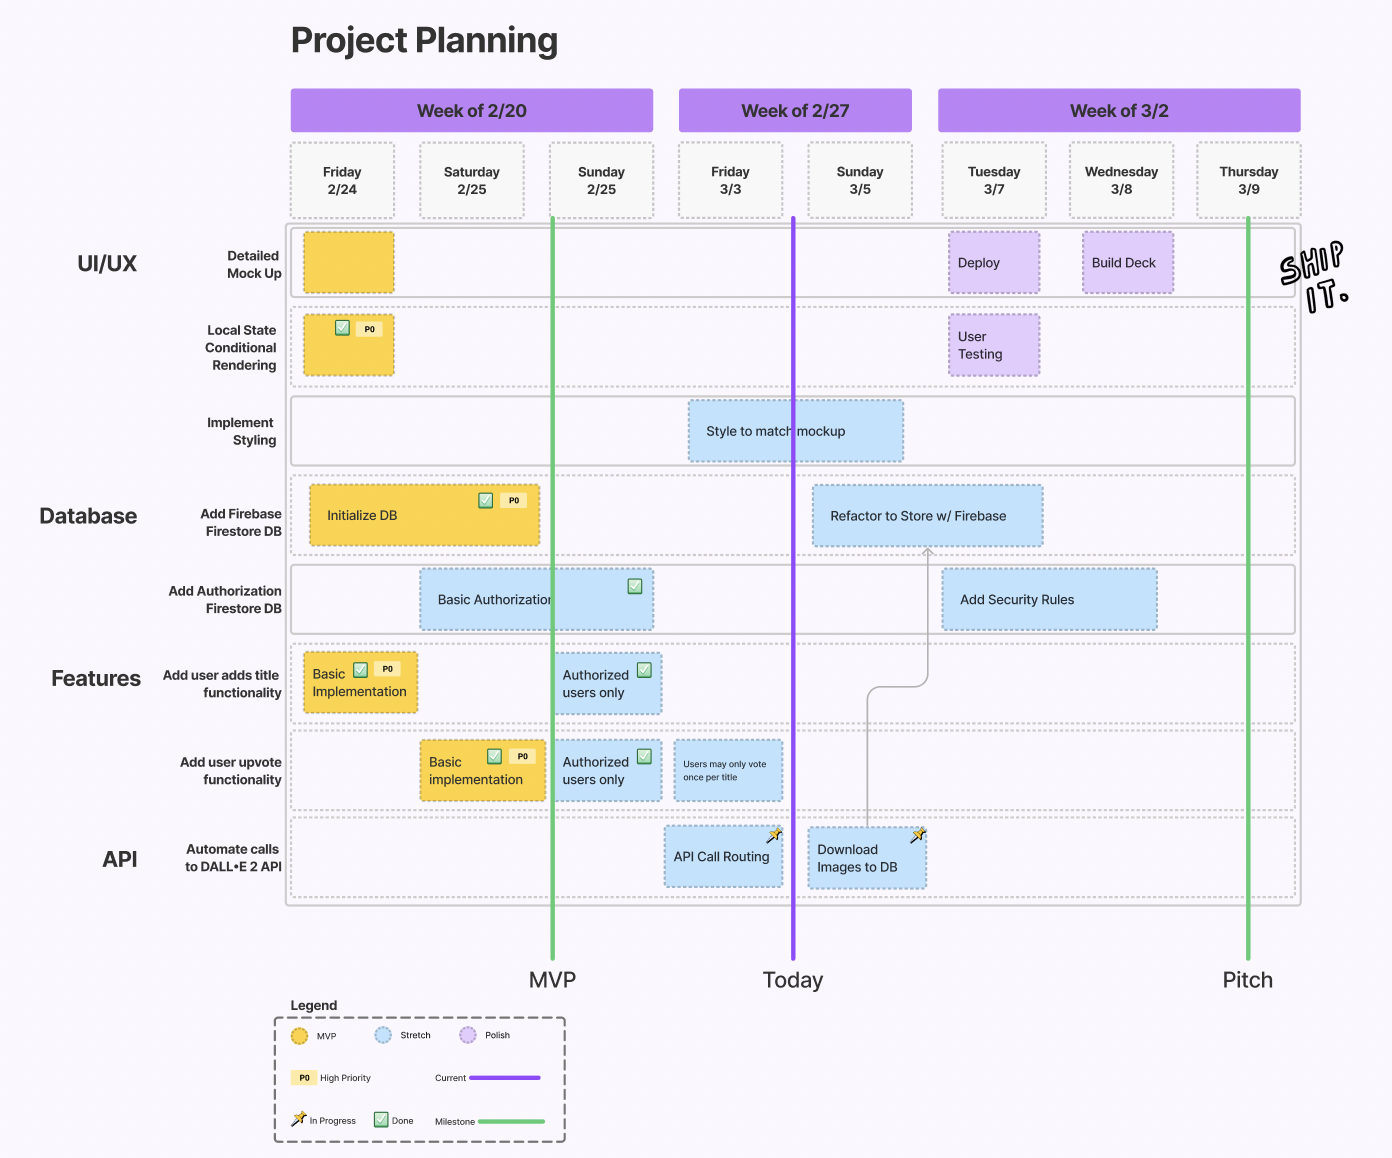
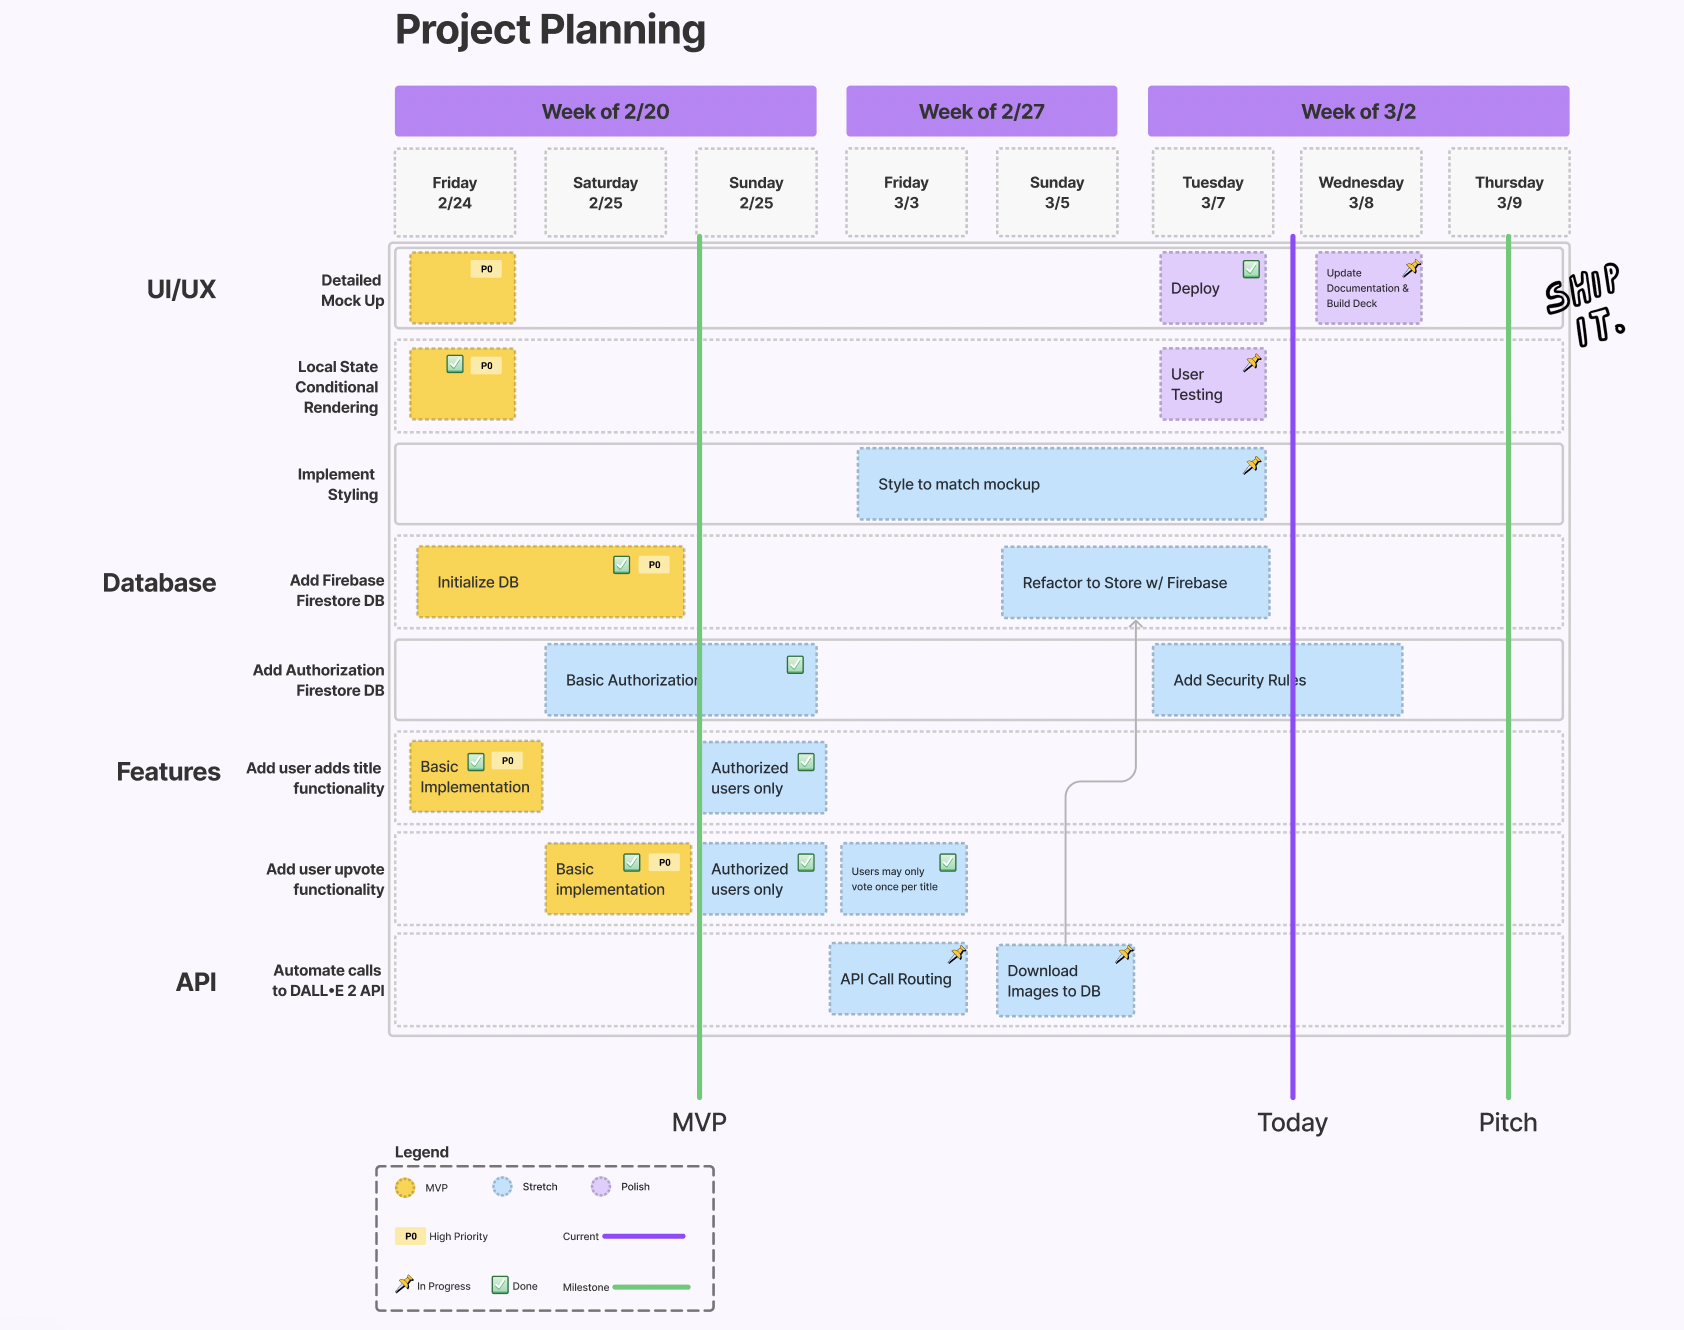
update process images, links & organizationin README

diff --git a/src/components/LoginControl.js b/src/components/LoginControl.js
@@ -2,7 +2,6 @@ import React, {useState} from "react";
 import Login from "./Login";
 import Logout from "./Logout";
 import Register from "./Register";
-import { auth } from "./../firebase.js"
 import Row from 'react-bootstrap/Row';
 import Col from 'react-bootstrap/Col';
 import Container from 'react-bootstrap/Container';

diff --git a/README.md b/README.md
@@ -1,30 +1,33 @@
-# Museum of Fake Art
+# [MoFA: the Museum of Fake Art](https://museum-of-fake-art.web.app)
 
 #### By Kirsten Opstad
 
-#### A web app that <!-- generates, --> displays and exhibits fake art
-
-<!-- #### [Check out the live site](https://kirstenopstad.github.io/local-business/)! -->
-
-## Technologies Used
-
-* React
-* JavaScript
-* Bootstrap
-* HTML
-* CSS
-* webpack
-* Node.js
-* Firebase
-
+#### A web app that exhibits AI-generated artwork
+***
+![Wireframe Mockup](./src/img/gen_images/img-vujGHIheyP5efqoS37Urs2w3.png)
+<i>Fake art, generated from the prompt: "a poker game of fish, Lyonel Feininger eqsue"</i>
+*** 
 ## Description
 
 Recreate the user experience of visiting a art musuem website with completely AI-generated artwork. By presenting AI-generated artwork in a format typically reserved for fine (real) art, the application intends to provoke conversation around the following questions: 
 * what makes art "real" or "fake"?
 * is it possible to have a "real" human experiences with "fake" art?
 * what are the social / cultural / human implications of the development of generative AI?
+*** 
+## Technologies Used
 
-### Objectives (MVP)
+* JavaScript
+* React
+* Firebase
+* webpack
+* Node.js
+* Axios
+* Bootstrap
+* HTML
+* CSS
+
+***
+### __Objectives__ (MVP)
 
 The application should have the following functionality:
 
@@ -33,21 +36,41 @@ __User stories:__
 * ✅ Users can add title/comment to AI-generated artwork
 * ✅ Users can  upvote/downvote titles/comments of AI-generated artwork
 
-### Further Exploration (Stretch Goals)
+### __Further Exploration__ (Stretch Goals)
 
 __User stories:__
 * ✅ Users can register and login
 * ✅ Users may only vote once per AI-generated artwork
 
+***
 ## Process 
 
-<!-- ✅  -->
+### __Research & Planning__
+
+![Roadmap](./src/img/roadmap.png)
+
+__Initial Component Diagram__
+[![Wireframe Component Hierarchy](./src/img/wireframe0.png)](https://www.figma.com/file/qwZdK8mH6mivu1HjC5udke/MOFA?node-id=0%3A1&t=DYXHI0F3lA0hwwPY-1)
+
+__Basic Wireframe by Component__
+![Wireframe Mockup](./src/img/wireframe.png)
+
+__Data Organization__
+![Data Organization](./src/img/data_structure.png)
+
+__Hierarchical Component Drawing__
+![Component Drawing](./src/img/component_diagram.png)
+
+__Design Research__
+[![Design Research](./src/img/design_research.png)]((https://www.figma.com/file/qwZdK8mH6mivu1HjC5udke/MOFA?node-id=0%3A1&t=DYXHI0F3lA0hwwPY-1))
+
+<!-- ### __Big Picture__
+![Big Picture](./src/img/big_picture.png) -->
+
+### __Implementation__
 1. ✅ Create component drawing
-
-[![Component Drawing](./src/img/component_diagram.png)](https://www.figma.com/file/9yZdrlZDInV6346toTdG2Z/CoffeeShop?node-id=0%3A1&t=SaS3WUYroyADmYHv-1)
-
-2. ✅ Establish Component Hierarchy:
-    * App.js
+2. ✅ Establish Component Hierarchy
+    <!-- * App.js
       * Header.js
       * PlanVisit.js
       * ExhControl.js 
@@ -56,56 +79,56 @@ __User stories:__
         * ExhDetail.js - displays all art in one exhibition
           * Artwork.js
         * ArtworkDetail.js 
-      * Footer.js
-
-[![Wireframe Component Hierarchy](./src/img/wireframe0.png)](https://www.figma.com/file/9yZdrlZDInV6346toTdG2Z/CoffeeShop?node-id=0%3A1&t=SaS3WUYroyADmYHv-1)
-
+      * Footer.js -->
 3. ✅ Build Static Components
 4. ✅ Add State
-  * Local State conditional rendering
-  * Shared State 
 5. ✅ Add Firebase to store data
-
-![Data Organization](./src/img/data_structure.png)
-
 6. ✅ Add Authentication
 7. ✅ Add Authorization (title / vote)
 8. ✅ Style to match mockup
-
-![Wireframe Mockup](./src/img/wireframe.png)
-
-
-### __Roadmap__
-![Roadmap](./src/img/roadmap.png)
-### __Big Picture__
-![Big Picture](./src/img/big_picture.png)
 
 <!-- [x] Screenshots
 
 ![Screenshots](https://external-content.duckduckgo.com/iu/?u=https%3A%2F%2Ftse1.mm.bing.net%2Fth%3Fid%3DOIP.03bZmDGXaBhBYyxxp3Ls3gHaEA%26pid%3DApi&f=1&ipt=e980d57210242747a51c41421e1f09a6de3b1fdaeaadd297496787bb64e80c88&ipo=images) -->
 
 <!-- [Link to operational site](http://www.kirstenopstad.github.com/<REPOSITORY NAME>) -->
-
+***
 ### __Goals__
 1. ✅ Meet MVP (Minimum Viable Product)
 2. ✅ Implement at least one stretch goal
-3. Create thorough documentation of process
+3. ✅ Create thorough documentation of process
 
 ### __Stretch Goals__
 1. Style front end to match design norms for reference museums 
 2. ✅ Handle user login & registration
-  *  ✅ Add functionality so users may only vote once per work
+    * ✅ Add functionality so users may only vote once per work
 3.  ✅ Ensure responsive design functionality across devices
-4. Gather user feedback
+4. 📌 Gather user feedback
 5. Incorporate user feedback
-6. Publish hosted site
+6. ✅ Publish hosted site
 7. Implement CI/CD (continuous integration and continuous delivery) with github Actions
 8. Create functionality automatically generate new prompts for DALLE•2
 9. ✅ Use app to call DALL•E API
-10. Use Firebase to save .png from URL and store in Google cloud
+10. 📌 Use Firebase to save .png from URL and store in Google cloud
 
-### Research & Planning Log
+***
+ 
+### __Research, Planning & Implementation Log__
 
+__Summary__
+|Date |Hours  | Note|
+--- | --- | ---|
+|2/17|8 hrs| Project planning, research and basic component creation|
+|2/24|8 hrs| Add conditional rendering, state, seeded data, Firebase & basic styling w/Bootstrap |
+|2/25|5 hrs| Add voting, authentication & authorization for add title + vote |
+|3/3|8 hrs| Add basic styling for exh components & add Firebase storage functionality |
+|3/5|8 hrs| Try CORS workaround w. proxy, add funct. user can only vote once per title, style login as modal |
+|3/7|8 hrs| Troubleshoot and research CORS issue |
+|3/8|8 hrs| Add routes, content, and styling for static pages |
+| |53 hrs| __Total To-Date__|
+<!-- |date|hour|data13| -->
+
+__Time Log__
 |Date |Time  | Note|
 --- | --- | ---|
 |2/17|8:32a | Setup documentation boilerplate (README.md & capstone-proposal)|
@@ -149,7 +172,7 @@ __User stories:__
 |3/5|4:52p| Add modal styling to login/out feat. to hold users' place while logging in |
 |3/6|8:30a| Add mkcert to make https://local... match OpenAI image URL |
 |3/6|10:20a| GET call to OpenAI url from Postman is successful, researching setting up proxy|
-|3/7|10:20a| GET call to OpenAI url from Postman is successful, researching setting up proxy|
+|3/7|10:20a| Continue researching setting up proxy|
 |3/7|4:45p| Multiple attempts at proxying & splitting double API call unsuccesful |
 |3/8|10:16a| Add routes for static pages|
 |3/8|11:00a| Add content to Visit and Store|
@@ -159,18 +182,7 @@ __User stories:__
 |3/8|5:00p| Make sign in modal avail sitewide |
 <!-- |date|time|data13| -->
 
-### Hour Totals
-|Date |Hours  | Note|
---- | --- | ---|
-|2/17|8 hrs| Project planning, research and basic component creation|
-|2/24|8 hrs| Add conditional rendering, state, seeded data, Firebase & basic styling w/Bootstrap |
-|2/25|5 hrs| Add voting, authentication & authorization for add title + vote |
-|3/3|8 hrs| Add basic styling for exh components & add Firebase storage functionality |
-|3/5|8 hrs| Try CORS workaround w. proxy, add funct. user can only vote once per title, style login as modal |
-|3/7|8 hrs| Troubleshoot and research CORS issue |
-|3/8|8 hrs| Add routes, content, and styling for static pages |
-| |53 hrs| __Total To-Date__|
-<!-- |date|hour|data13| -->
+*** 
 
 ### Next Steps
 1. Add functionality to Subscribe, Membership and Store buttons
@@ -178,8 +190,11 @@ __User stories:__
 2. Add Prodigi integration
 
 ### Project Links
-* [Whiteboard](https://www.figma.com/file/qwZdK8mH6mivu1HjC5udke/MOFA?node-id=3%3A298&t=OPUkQpOJpVfySjyu-0)
-* [Google Drive](https://drive.google.com/drive/folders/1rxBeCx7N13FGsMKBLVsTgdofXTlSvd4D?usp=sharing)
+* [Whiteboard](https://www.figma.com/file/qwZdK8mH6mivu1HjC5udke/MOFA?node-id=3%3A298&t=OPUkQpOJpVfySjyu-0) – Figma document where visual brainstorming for MoFA happens
+* [Google Drive](https://drive.google.com/drive/folders/1rxBeCx7N13FGsMKBLVsTgdofXTlSvd4D?usp=sharing) – where design research images live 
+* [Live Site](https://museum-of-fake-art.web.app/faq) – visit, login & add a title of your own!
+
+***
 
 ## Sources
 ### __Subject Matter__
@@ -190,6 +205,8 @@ __User stories:__
 * [Guggenheim](https://www.guggenheim.org/)
 ### __Technology__
 * [Open AI DALL•E 2](https://openai.com/dall-e-2/)
+
+***
 ## Setup/Installation Requirements
 
 * Clone this repo to your workspace.
@@ -202,6 +219,7 @@ $ npm install
 ```
 $ npm run start
 ```
+***
 
 ## Known Bugs
 
@@ -209,6 +227,8 @@ $ npm run start
   * BUG: _A brief description of the bug_
   * FIX: _Suggestion for solution (if you have one!)_
   * If you'd like to be credited, please also include your **_github user profile link_**
+
+*** 
 
 ## License
 
